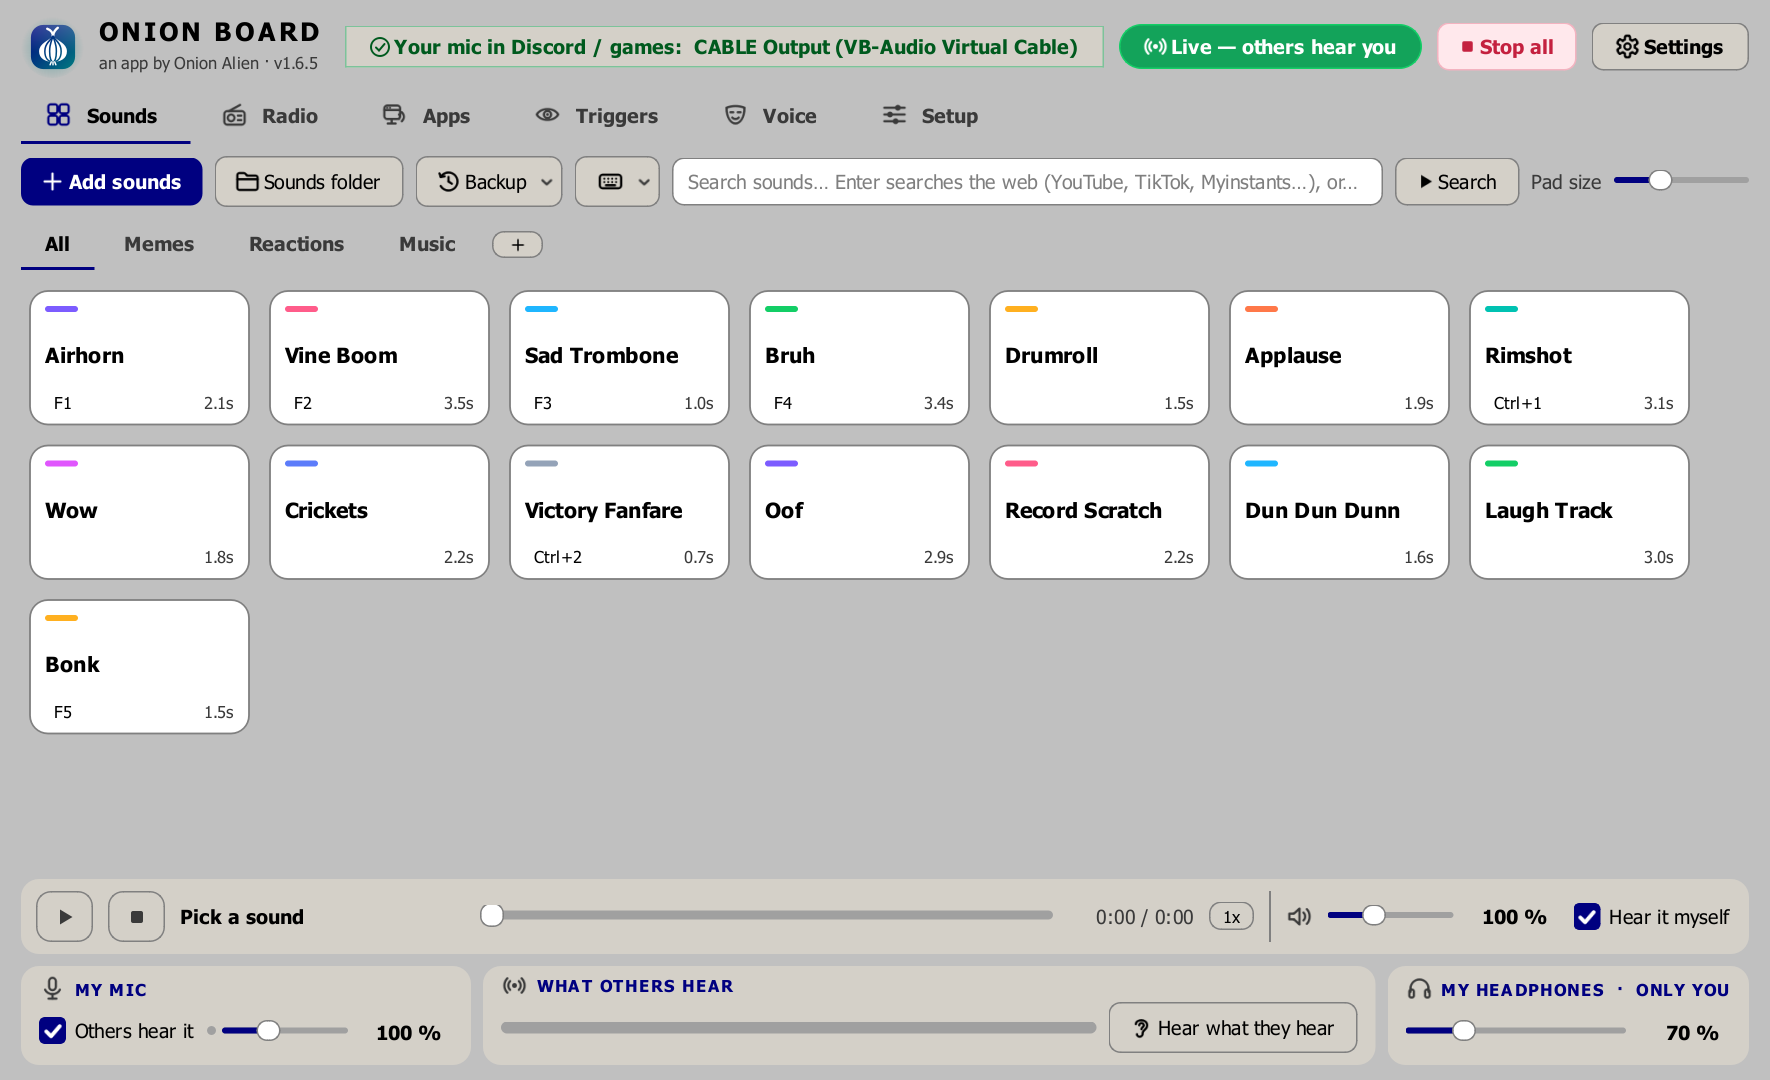
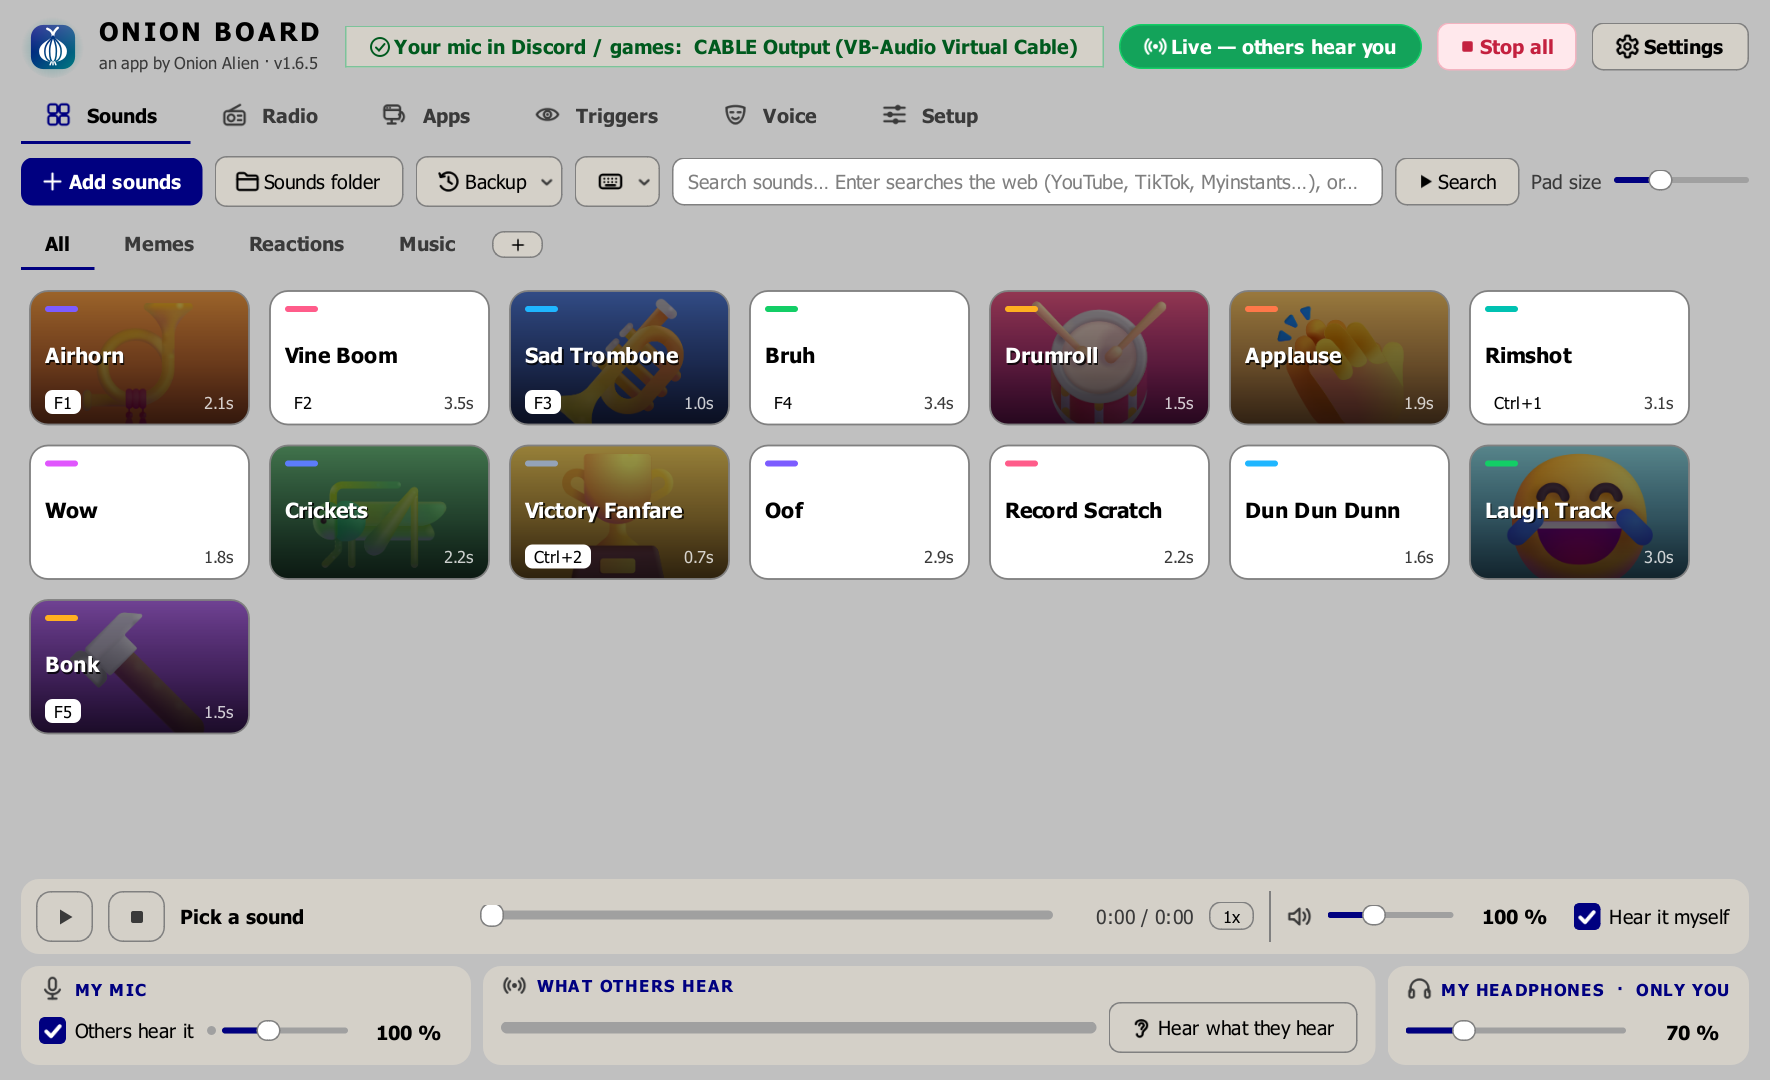
Screenshots: pictures on the demo pads; links that never show a cached old copy
The demo board's pads get pictures (an emoji on a gradient, drawn in code).
docs.py tags every screenshot link with ?v=<hash of the picture>, so browsers
and GitHub's image proxy fetch a changed picture instead of the one they kept.

diff --git a/docs/index.html b/docs/index.html
@@ -7,7 +7,7 @@
 <meta name="description" content="Free Windows soundboard: play sounds into Discord and games through your mic. In-game hotkeys, an overlay, effects, a voice changer, text-to-speech, instant replay, and screen triggers that play a sound when something shows up, like YOU DIED.">
 <meta property="og:title" content="Onion Board: free soundboard for Discord and games">
 <meta property="og:description" content="Play sounds through your mic in Discord and games. Voice changer, text-to-speech, and screen triggers that play a sound when you die.">
-<meta property="og:image" content="https://onion-alien.github.io/onion-board/screenshots/sounds.png">
+<meta property="og:image" content="https://onion-alien.github.io/onion-board/screenshots/sounds.png?v=f0ba4727">
 <meta property="og:type" content="website">
 <meta name="twitter:card" content="summary_large_image">
 <link rel="canonical" href="https://onion-alien.github.io/onion-board/">
@@ -18,7 +18,7 @@
  "description": "Free Windows soundboard: play sounds into Discord and games through your mic, with a voice changer, text-to-speech, in-game hotkeys and screen triggers.",
  "url": "https://onion-alien.github.io/onion-board/",
  "downloadUrl": "https://github.com/Onion-Alien/onion-board/releases/latest/download/OnionBoardSetup.exe",
- "screenshot": "https://onion-alien.github.io/onion-board/screenshots/sounds.png",
+ "screenshot": "https://onion-alien.github.io/onion-board/screenshots/sounds.png?v=f0ba4727",
  "offers": {"@type": "Offer", "price": "0", "priceCurrency": "USD"}}
 </script>
 <style>
@@ -72,7 +72,7 @@
       <a href="https://www.virustotal.com/gui/file/4267e4cf1ebdff01fcfacfea926fb13a1d88fdb82cce048f473b8155d8560ac6">VirusTotal: 68 of 68 clean</a> ·
       <a href="https://github.com/Onion-Alien/onion-board/releases/latest">what's new</a></p>
     <!-- /release -->
-    <img class="hero" src="screenshots/sounds.png" width="1770" height="1080" alt="Onion Board's sound pads">
+    <img class="hero" src="screenshots/sounds.png?v=f0ba4727" width="1770" height="1080" alt="Onion Board's sound pads">
   </header>
 
   <h2>What it does</h2>
@@ -89,10 +89,10 @@
 
   <h2>A closer look</h2>
   <div class="grid shots">
-    <figure><img src="screenshots/voice.png" alt="The Voice tab" loading="lazy"><figcaption>Voice changer and text-to-speech</figcaption></figure>
-    <figure><img src="screenshots/triggers.png" alt="The Triggers tab" loading="lazy"><figcaption>Triggers: a sound when something shows up in your game</figcaption></figure>
-    <figure><img src="screenshots/apps.png" alt="The Apps tab" loading="lazy"><figcaption>Send one program's sound to your friends</figcaption></figure>
-    <figure><img src="screenshots/setup.png" alt="The Setup tab" loading="lazy"><figcaption>Setup shows at a glance whether they can hear you</figcaption></figure>
+    <figure><img src="screenshots/voice.png?v=95206240" alt="The Voice tab" loading="lazy"><figcaption>Voice changer and text-to-speech</figcaption></figure>
+    <figure><img src="screenshots/triggers.png?v=fe03457b" alt="The Triggers tab" loading="lazy"><figcaption>Triggers: a sound when something shows up in your game</figcaption></figure>
+    <figure><img src="screenshots/apps.png?v=d72ae89c" alt="The Apps tab" loading="lazy"><figcaption>Send one program's sound to your friends</figcaption></figure>
+    <figure><img src="screenshots/setup.png?v=d6a23526" alt="The Setup tab" loading="lazy"><figcaption>Setup shows at a glance whether they can hear you</figcaption></figure>
   </div>
 
   <h2>Get started</h2>

diff --git a/docs/discord-soundboard/index.html b/docs/discord-soundboard/index.html
@@ -7,7 +7,7 @@
 <meta name="description" content="Play any sound or song through your mic in Discord voice chat, with hotkeys that work in-game. Free Windows soundboard, no Nitro, no length limit. Step-by-step setup.">
 <meta property="og:title" content="How to play sounds through your mic in Discord">
 <meta property="og:description" content="Free Windows soundboard: any sound, any length, hotkeys that work in-game. Setup takes two minutes.">
-<meta property="og:image" content="https://onion-alien.github.io/onion-board/screenshots/sounds.png">
+<meta property="og:image" content="https://onion-alien.github.io/onion-board/screenshots/sounds.png?v=f0ba4727">
 <meta property="og:type" content="article">
 <meta name="twitter:card" content="summary_large_image">
 <link rel="canonical" href="https://onion-alien.github.io/onion-board/discord-soundboard/">
@@ -43,7 +43,7 @@
       suppression treats music and sound effects as background noise and cuts them out.</li>
     <li>Drag sound files onto the Onion Board window and double-click a pad. Everyone in the call hears it.</li>
   </ol>
-  <img src="../screenshots/sounds.png" alt="Onion Board's sound pads" loading="lazy" width="1100" height="736">
+  <img src="../screenshots/sounds.png?v=f0ba4727" alt="Onion Board's sound pads" loading="lazy" width="1100" height="736">
 
   <h2>Play sounds while you're in a game</h2>
   <p>Right-click a pad and give it a <b>hotkey</b>. Hotkeys work even while a fullscreen game has

diff --git a/docs/free-soundpad-alternative/index.html b/docs/free-soundpad-alternative/index.html
@@ -7,7 +7,7 @@
 <meta name="description" content="Looking for a free alternative to Soundpad or Voicemod? Onion Board is a free Windows soundboard with a voice changer, text-to-speech, in-game hotkeys and screen triggers. No account, no ads.">
 <meta property="og:title" content="A free Soundpad and Voicemod alternative">
 <meta property="og:description" content="Free Windows soundboard with a voice changer, text-to-speech, in-game hotkeys and screen triggers.">
-<meta property="og:image" content="https://onion-alien.github.io/onion-board/screenshots/sounds.png">
+<meta property="og:image" content="https://onion-alien.github.io/onion-board/screenshots/sounds.png?v=f0ba4727">
 <meta property="og:type" content="article">
 <meta name="twitter:card" content="summary_large_image">
 <link rel="canonical" href="https://onion-alien.github.io/onion-board/free-soundpad-alternative/">
@@ -57,7 +57,7 @@
     banner or a kill icon, and it plays a sound the moment that picture shows up. Set a sad
     trombone for every death and never press a key. It watches the game's own window, works
     behind other windows, and runs entirely on your PC.</p>
-  <img src="../screenshots/triggers.png" alt="Onion Board's Triggers tab" loading="lazy" width="1100" height="736">
+  <img src="../screenshots/triggers.png?v=fe03457b" alt="Onion Board's Triggers tab" loading="lazy" width="1100" height="736">
 
   <h2>Switching over</h2>
   <ol>

diff --git a/scripts/screenshots.py b/scripts/screenshots.py
@@ -59,6 +59,15 @@ SOUNDS = [("Airhorn", "F1", "Memes"), ("Vine Boom", "F2", "Memes"),
           ("Oof", "", "Memes"), ("Record Scratch", "", "Music"),
           ("Dun Dun Dunn", "", "Memes"), ("Laugh Track", "", "Reactions"),
           ("Bonk", "F5", "Memes")]
+# Pad pictures, drawn in code: sound name -> (emoji, top colour, bottom colour)
+PICTURES = {"Airhorn": ("📯", "#ffb347", "#ff6a3d"),
+            "Sad Trombone": ("🎺", "#5b8def", "#2c3e91"),
+            "Drumroll": ("🥁", "#ff6b81", "#b5179e"),
+            "Applause": ("👏", "#ffd166", "#f4a261"),
+            "Crickets": ("🦗", "#7bd389", "#2d6a4f"),
+            "Victory Fanfare": ("🏆", "#ffe066", "#e09f3e"),
+            "Laugh Track": ("😂", "#a0e7e5", "#4ea8de"),
+            "Bonk": ("🔨", "#c77dff", "#7b2cbf")}
 # Triggers tab: (name, picture (see trigger_picture), sound index, wait, live match %)
 TRIGGERS = [("Died", "died", 2, 1.5, 12),
             ("Boss beaten", "victory", 9, 0.0, 91),
@@ -121,9 +130,32 @@ def demo_config(tmp: Path, theme: str):
         sf.write(path, np.stack([y, y], 1), library.SR)
         sounds.append(library.SoundMeta(id=f"s{i}", name=name, file=str(path), hotkey=key,
                                         color=library.PAD_COLORS[i % len(library.PAD_COLORS)],
-                                        tags=[tag]))
+                                        tags=[tag], image=pad_picture(tmp, name)))
     library.Config(sounds=sounds, categories=["Memes", "Reactions", "Music"],
                    setup_done=True, theme=theme, screen={"triggers": demo_triggers(tmp)}).save()
+
+
+def pad_picture(tmp: Path, name: str) -> str:
+    """A made-up pad picture (see PICTURES): an emoji on a gradient, or "" for none."""
+    if name not in PICTURES:
+        return ""
+    from PySide6.QtCore import QRectF, Qt
+    from PySide6.QtGui import QColor, QFont, QImage, QLinearGradient, QPainter
+    emoji, top, bottom = PICTURES[name]
+    img = QImage(256, 256, QImage.Format_RGB32)
+    p = QPainter(img)
+    p.setRenderHint(QPainter.Antialiasing)
+    g = QLinearGradient(0, 0, 0, 256)
+    g.setColorAt(0, QColor(top))
+    g.setColorAt(1, QColor(bottom))
+    p.fillRect(img.rect(), g)
+    p.setFont(QFont("Segoe UI Emoji", 120))
+    p.drawText(QRectF(0, 0, 256, 256), Qt.AlignCenter, emoji)
+    p.end()
+    path = tmp / "thumbs" / f"{name}.png"
+    path.parent.mkdir(parents=True, exist_ok=True)
+    img.save(str(path))
+    return str(path)
 
 
 def trigger_picture(kind: str):

diff --git a/scripts/docs.py b/scripts/docs.py
@@ -8,7 +8,8 @@
 The version comes from soundboard/__init__.py; the VirusTotal scan is remembered in
 docs/release.json, so it only needs passing once per release. The line is rewritten
 between the <!-- release --> markers in README.md and docs/index.html, and the
-sitemap's dates are set to today.
+sitemap's dates are set to today. Every screenshot link gets ?v=<hash of the picture>,
+so nobody is shown an old cached copy after the pictures change.
 
 Screenshots are screenshots.py (offscreen, made-up data, the Retro 98 theme). Set
 ONIONBOARD_ONION_WATCH_ZIP to an OnionWatch-module.zip to include the Triggers tab.
@@ -16,6 +17,7 @@ ONIONBOARD_ONION_WATCH_ZIP to an OnionWatch-module.zip to include the Triggers t
 """
 import argparse
 import datetime
+import hashlib
 import json
 import os
 import re
@@ -63,6 +65,28 @@ def stamp(path: Path, block: str):
     print("stamped", path.relative_to(ROOT))
 
 
+PAGES = [ROOT / "README.md", ROOT / "docs" / "index.html",
+         ROOT / "docs" / "discord-soundboard" / "index.html",
+         ROOT / "docs" / "free-soundpad-alternative" / "index.html"]
+
+
+def bust_caches():
+    """Give each screenshot link a ?v=<hash of the picture>, so browsers and GitHub's
+    image proxy fetch a changed picture instead of showing the old one they kept."""
+    def tag(m):
+        pic = SHOTS / m.group(2)
+        if not pic.exists():
+            return m.group(0)
+        h = hashlib.sha1(pic.read_bytes()).hexdigest()[:8]
+        return f"{m.group(1)}{m.group(2)}?v={h}"
+    for page in PAGES:
+        text = page.read_text(encoding="utf-8")
+        new = re.sub(r"(screenshots/)([\w-]+\.(?:png|webp))(?:\?v=\w+)?", tag, text)
+        if new != text:
+            page.write_text(new, encoding="utf-8")
+            print("re-linked pictures in", page.relative_to(ROOT))
+
+
 def main():
     ap = argparse.ArgumentParser()
     ap.add_argument("--vt", nargs=2, metavar=("SHA256", "CLEAN/TOTAL"),
@@ -102,6 +126,7 @@ def main():
     if args.tour:
         subprocess.run([sys.executable, str(ROOT / "scripts" / "tour.py"),
                         "--out", str(SHOTS / "tour.webp")], cwd=ROOT, check=True)
+    bust_caches()
 
 
 if __name__ == "__main__":

diff --git a/README.md b/README.md
@@ -12,13 +12,13 @@ Version **1.6.5** · Windows 10 / 11 · free, no account, no ads, no tracking ·
 [what's new](CHANGELOG.md)
 <!-- /release -->
 
-![Onion Board's sound pads](docs/screenshots/sounds.png)
+![Onion Board's sound pads](docs/screenshots/sounds.png?v=f0ba4727)
 
 | | |
 |---|---|
-| ![Voice changer and text-to-speech](docs/screenshots/voice.png) | ![Screen triggers](docs/screenshots/triggers.png) |
+| ![Voice changer and text-to-speech](docs/screenshots/voice.png?v=95206240) | ![Screen triggers](docs/screenshots/triggers.png?v=fe03457b) |
 | **Voice**: change your voice live, or type and a computer voice says it | **Triggers**: a sound the moment "YOU DIED" shows up in your game |
-| ![Send a program's sound](docs/screenshots/apps.png) | ![Setup at a glance](docs/screenshots/setup.png) |
+| ![Send a program's sound](docs/screenshots/apps.png?v=d72ae89c) | ![Setup at a glance](docs/screenshots/setup.png?v=d6a23526) |
 | **Apps**: send one program's sound (music, a video) to your friends | **Setup**: one look tells you whether others can hear you |
 
 ## What it does
